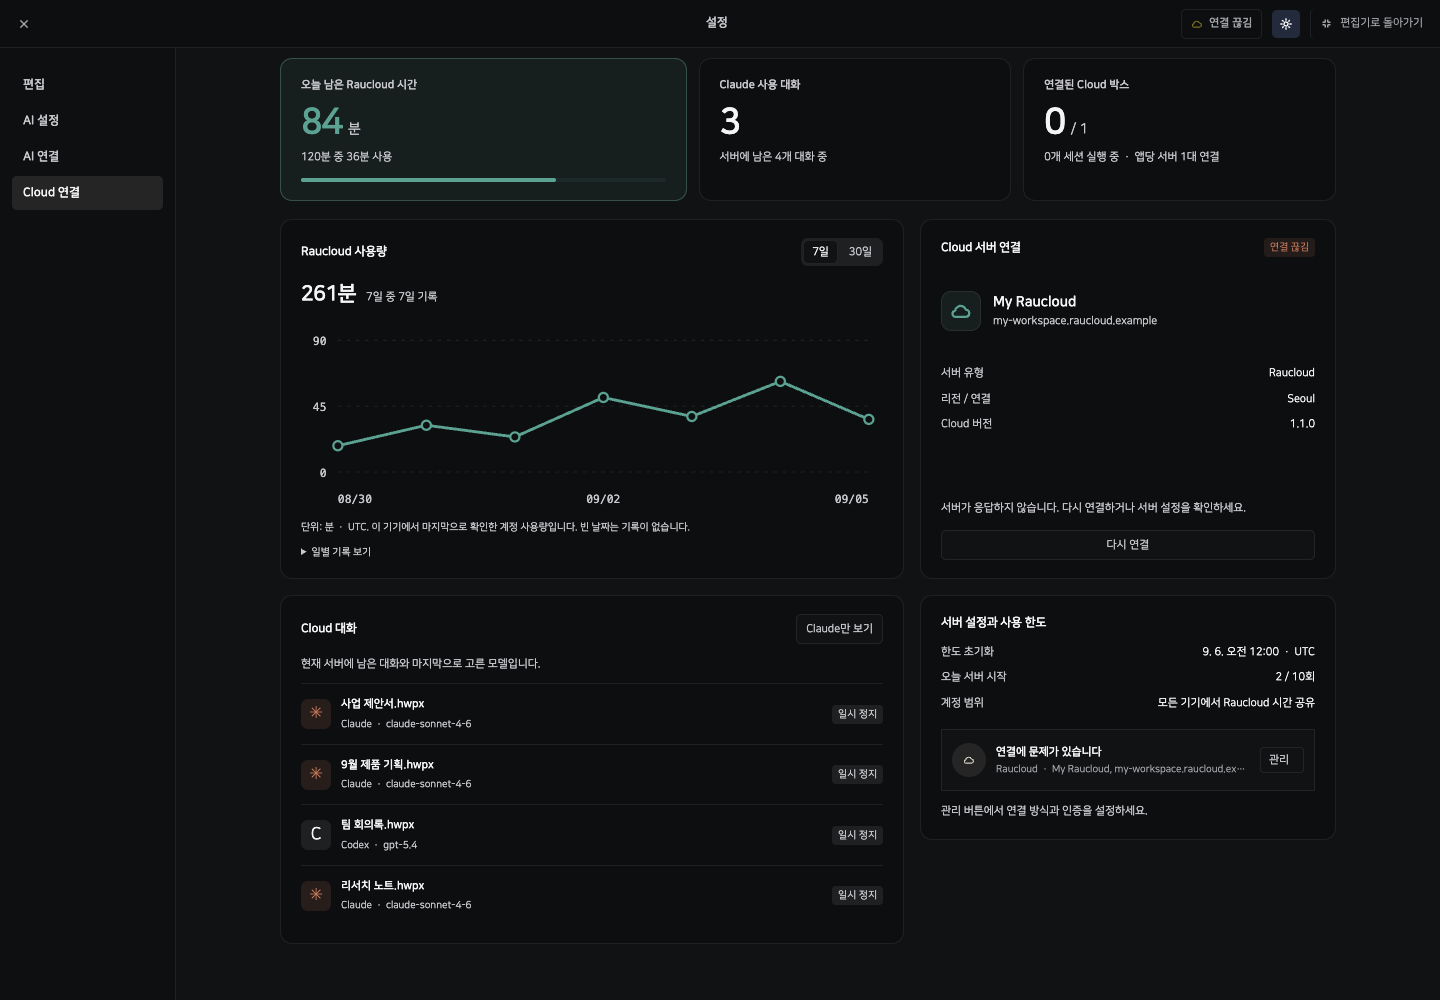
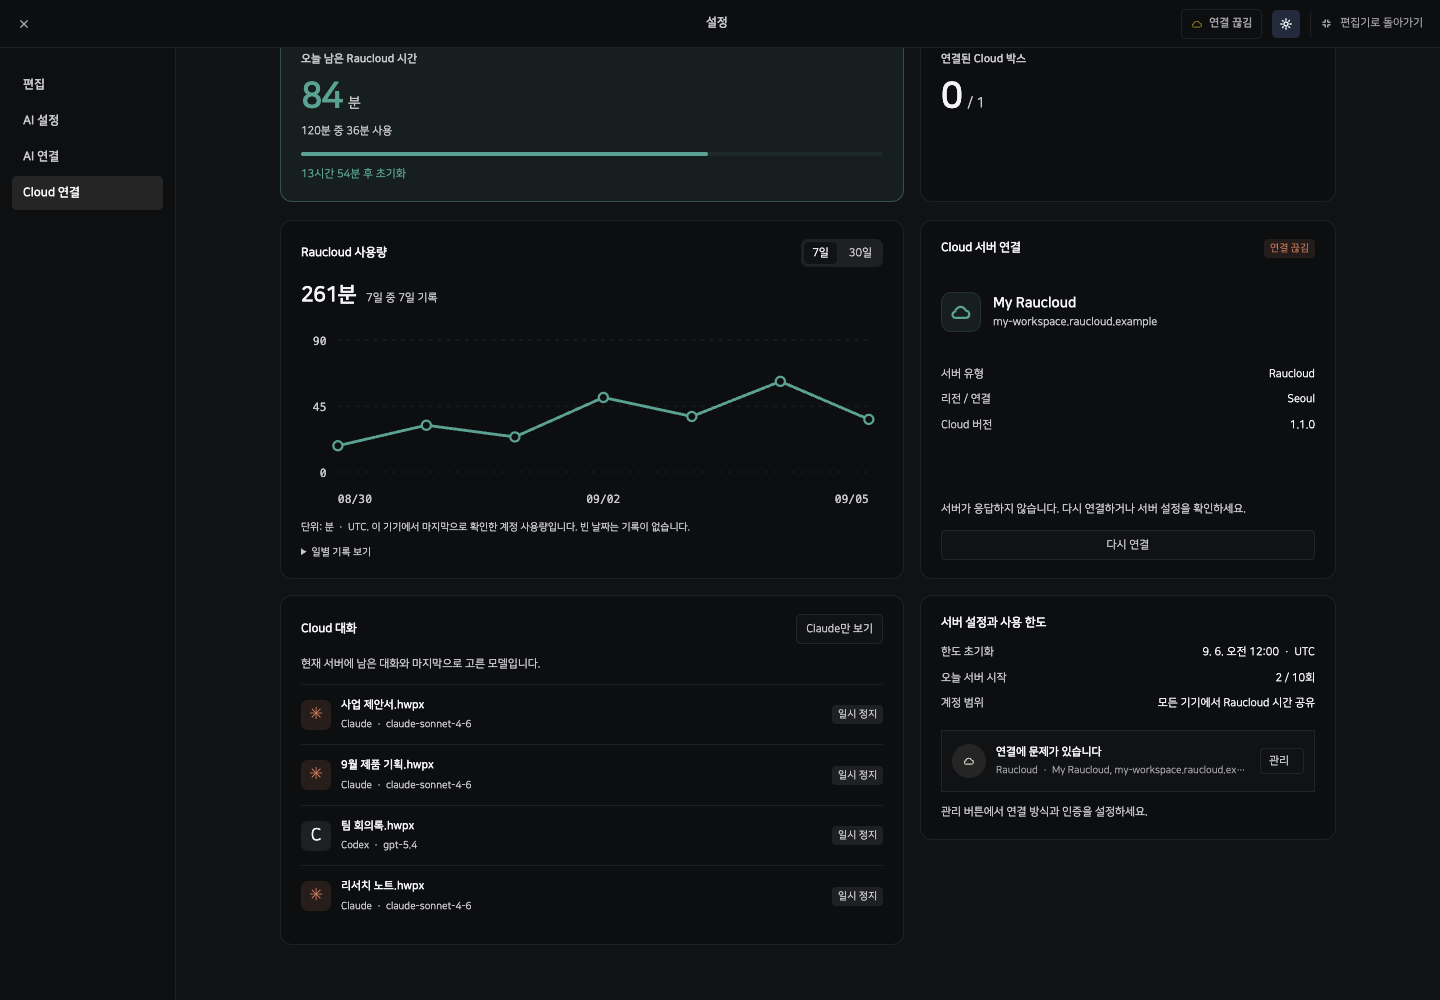
Simplify Cloud dashboard metrics and show quota reset countdown

diff --git a/rhwp/rhwp-studio/src/ui/agent-sidebar/cloud-dashboard.ts b/rhwp/rhwp-studio/src/ui/agent-sidebar/cloud-dashboard.ts
@@ -105,8 +105,8 @@ export function createCloudDashboard(deps: CloudDashboardDeps) {
   meter.setAttribute('aria-label', '오늘 남은 Raucloud 시간');
   const fill = el('div', 'ag-cd-meter-fill');
   meter.append(fill);
-  quota.card.append(meter);
-  const claude = stat('Claude 사용 대화');
+  const resetEta = el('p', 'ag-cd-reset');
+  quota.card.append(meter, resetEta);
   const boxes = stat('연결된 Cloud 박스');
 
   const grid = el('div', 'ag-cd-grid');
@@ -211,8 +211,45 @@ export function createCloudDashboard(deps: CloudDashboardDeps) {
   refresh.addEventListener('click', () => void run('refresh'));
   reconnect.addEventListener('click', () => void run('reconnect'));
   const refreshTimer = window.setInterval(() => {
-    if (element.checkVisibility() && document.visibilityState === 'visible') void run('refresh', true);
+    if (element.checkVisibility() && document.visibilityState === 'visible') {
+      renderQuota();
+      void run('refresh', true);
+    }
   }, 30_000);
+  function onVisibilityChange() {
+    if (document.visibilityState === 'visible') renderQuota();
+  }
+  document.addEventListener('visibilitychange', onVisibilityChange);
+
+  function renderQuota() {
+    if (!snapshot) return;
+    const account = snapshot.account;
+    const allowance = account?.signedIn ? account.quota : null;
+    const resetAt = allowance ? Date.parse(allowance.resetAt) : NaN;
+    const remainingMs = resetAt - Date.now();
+    const fresh = !refreshError && allowance && remainingMs > 0;
+    quota.value.replaceChildren(document.createTextNode(fresh ? minutes(allowance.remainingMs) : '—'), el('span', 'ag-cd-stat-unit', '분'));
+    quota.detail.textContent = fresh ? `${minutes(allowance.dailyLimitMs)}분 중 ${minutes(allowance.usedMs)}분 사용`
+      : allowance ? '사용량을 새로고침해 주세요.' : account?.signedIn ? '아직 사용 한도를 확인하지 못했습니다.' : '로그인하면 남은 시간을 볼 수 있습니다.';
+    quota.detail.title = account ? `사용량 확인: ${formatTime(account.updatedAt)}` : '';
+    resetEta.hidden = !Number.isFinite(resetAt);
+    const totalMinutes = Math.ceil(remainingMs / 60_000);
+    const hours = Math.floor(totalMinutes / 60);
+    const mins = totalMinutes % 60;
+    const duration = [hours > 0 ? `${hours}시간` : '', mins > 0 ? `${mins}분` : ''].filter(Boolean).join(' ');
+    resetEta.textContent = remainingMs <= 0 ? '초기화 확인 중'
+      : remainingMs <= 60_000 ? '1분 이내 초기화' : `${duration} 후 초기화`;
+    resetEta.title = allowance ? `${formatTime(allowance.resetAt, allowance.timeZone)} · ${allowance.timeZone}` : '';
+    meter.hidden = !fresh;
+    if (fresh) {
+      const remaining = Math.min(Math.max(0, allowance.remainingMs), allowance.dailyLimitMs);
+      meter.setAttribute('aria-valuemin', '0');
+      meter.setAttribute('aria-valuemax', String(allowance.dailyLimitMs / 60_000));
+      meter.setAttribute('aria-valuenow', String(remaining / 60_000));
+      fill.style.width = `${allowance.dailyLimitMs > 0 ? remaining / allowance.dailyLimitMs * 100 : 0}%`;
+      quota.card.dataset.low = String(remaining / allowance.dailyLimitMs <= 0.15);
+    }
+  }
 
   function renderChart() {
     if (!snapshot) return;
@@ -327,25 +364,10 @@ export function createCloudDashboard(deps: CloudDashboardDeps) {
 
     const account = snapshot.account;
     const allowance = account?.signedIn ? account.quota : null;
-    const fresh = !refreshError && allowance && Date.parse(allowance.resetAt) > Date.now();
-    quota.value.replaceChildren(document.createTextNode(fresh ? minutes(allowance.remainingMs) : '—'), el('span', 'ag-cd-stat-unit', '분'));
-    quota.detail.textContent = fresh ? `${minutes(allowance.dailyLimitMs)}분 중 ${minutes(allowance.usedMs)}분 사용`
-      : allowance ? '사용량을 새로고침해 주세요.' : account?.signedIn ? '아직 사용 한도를 확인하지 못했습니다.' : '로그인하면 남은 시간을 볼 수 있습니다.';
-    quota.detail.title = account ? `사용량 확인: ${formatTime(account.updatedAt)}` : '';
-    meter.hidden = !fresh;
-    if (fresh) {
-      const remaining = Math.min(Math.max(0, allowance.remainingMs), allowance.dailyLimitMs);
-      meter.setAttribute('aria-valuemin', '0');
-      meter.setAttribute('aria-valuemax', String(allowance.dailyLimitMs / 60_000));
-      meter.setAttribute('aria-valuenow', String(remaining / 60_000));
-      fill.style.width = `${allowance.dailyLimitMs > 0 ? remaining / allowance.dailyLimitMs * 100 : 0}%`;
-      quota.card.dataset.low = String(remaining / allowance.dailyLimitMs <= 0.15);
-    }
-    const sessions = cloudDashboardSessions(snapshot);
-    claude.value.textContent = String(sessions.claudeChats);
-    claude.detail.textContent = `서버에 남은 ${sessions.chats}개 대화 중${sessions.unknownChats ? ` · 모델 미확인 ${sessions.unknownChats}개` : ''}`;
+    renderQuota();
     boxes.value.replaceChildren(document.createTextNode(ready ? '1' : '0'), el('span', 'ag-cd-stat-unit', `/ ${configured ? '1' : '0'}`));
-    boxes.detail.textContent = configured ? `${sessions.active}개 세션 실행 중 · 앱당 서버 1대 연결` : 'Raucloud 또는 내 서버를 연결하세요.';
+    boxes.detail.hidden = configured;
+    boxes.detail.textContent = configured ? '' : 'Raucloud 또는 내 서버를 연결하세요.';
 
     serverBadge.textContent = ready ? '연결됨' : state === 'pending' ? '확인 중' : state === 'unknown' ? '확인 필요' : configured ? '연결 끊김' : '미연결';
     serverBadge.dataset.state = state;
@@ -375,6 +397,10 @@ export function createCloudDashboard(deps: CloudDashboardDeps) {
   return {
     element,
     sync(next: CloudSnapshot) { if (!disposed) { snapshot = next; refreshError = false; render(); } },
-    dispose() { disposed = true; window.clearInterval(refreshTimer); },
+    dispose() {
+      disposed = true;
+      window.clearInterval(refreshTimer);
+      document.removeEventListener('visibilitychange', onVisibilityChange);
+    },
   };
 }

diff --git a/rhwp/rhwp-studio/src/ui/agent-sidebar/cloud-dashboard.css b/rhwp/rhwp-studio/src/ui/agent-sidebar/cloud-dashboard.css
@@ -31,7 +31,7 @@
 .ag-cd-feedback { padding: 10px 12px; margin: 0 0 16px; border: 1px solid var(--ag-border); border-radius: 8px; background: var(--cd-tint); overflow-wrap: anywhere; }
 .ag-cd-feedback[data-kind='error'] { background: color-mix(in srgb, #c77958 10%, var(--ag-bg)); }
 .ag-cd-feedback[hidden], .ag-cd-meter[hidden], .ag-cd-reconnect[hidden], .ag-cd-setup[hidden] { display: none; }
-.ag-cd-stats { display: grid; grid-template-columns: 1.3fr 1fr 1fr; gap: 12px; margin-bottom: 18px; }
+.ag-cd-stats { display: grid; grid-template-columns: minmax(0, 1.5fr) minmax(0, 1fr); gap: 16px; margin-bottom: 18px; }
 .ag-cd-stat { padding: 18px 20px; border: 1px solid var(--ag-border); border-radius: 12px; background: var(--ag-bg-2); min-width: 0; }
 .ag-cd-quota { background: var(--cd-tint); border-color: color-mix(in srgb, var(--cd-accent) 28%, var(--ag-border)); }
 .ag-cd-stat-label { margin: 0 0 8px; font-size: 11px; font-weight: 550; color: var(--ag-text-secondary); }
@@ -40,6 +40,7 @@
 .ag-cd-stat-unit { padding-left: 6px; font-size: 14px; color: var(--ag-text-secondary); font-weight: 400; letter-spacing: 0; }
 .ag-cd-meter { height: 4px; border-radius: 4px; margin-top: 12px; overflow: hidden; background: color-mix(in srgb, var(--cd-accent) 16%, var(--ag-bg)); }
 .ag-cd-meter-fill { height: 100%; background: var(--cd-accent); border-radius: inherit; }
+.ag-cd-reset { margin: 10px 0 0; color: var(--cd-accent); font-size: 11px; font-variant-numeric: tabular-nums; }
 .ag-cd-quota[data-low='true'] .ag-cd-stat-value { color: #c77958; }
 .ag-cd-quota[data-low='true'] .ag-cd-meter-fill { background: #c77958; }
 .ag-cd-grid { display: grid; grid-template-columns: minmax(0, 1.5fr) minmax(0, 1fr); gap: 16px; align-items: start; }
@@ -101,8 +102,7 @@
   .ag-cd-subtitle { font-size: 11px; }
   .ag-cd-expand { margin-left: auto; }
   .ag-cd-grid { grid-template-columns: minmax(0, 1fr); gap: 14px; }
-  .ag-cd-stats { grid-template-columns: 1fr 1fr; gap: 10px; }
-  .ag-cd-quota { grid-column: 1 / -1; }
+  .ag-cd-stats { grid-template-columns: minmax(0, 1fr); gap: 10px; }
   .ag-cd-stat { padding: 16px; }
   .ag-cd-stat-value { font-size: 32px; }
   .ag-cd-quota .ag-cd-stat-value { font-size: 42px; }
